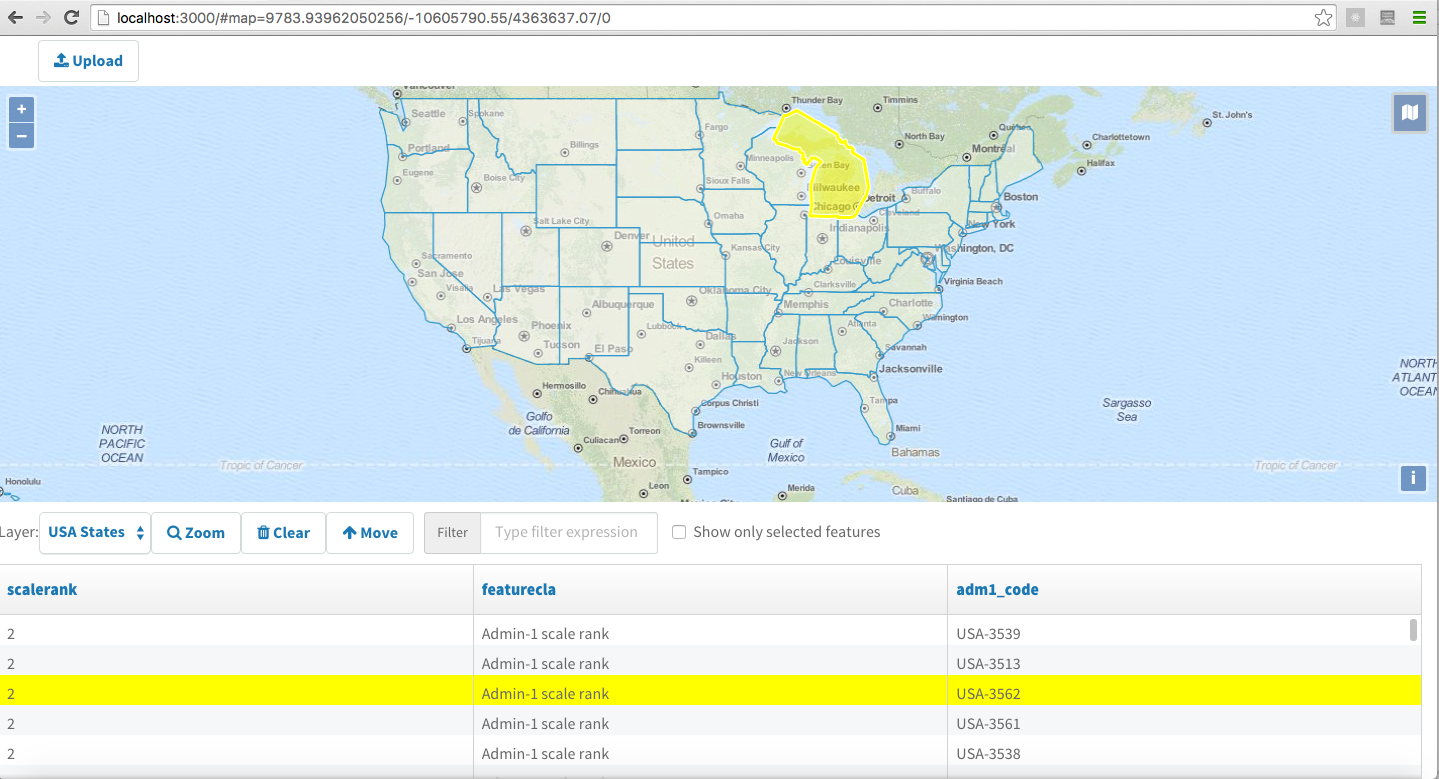
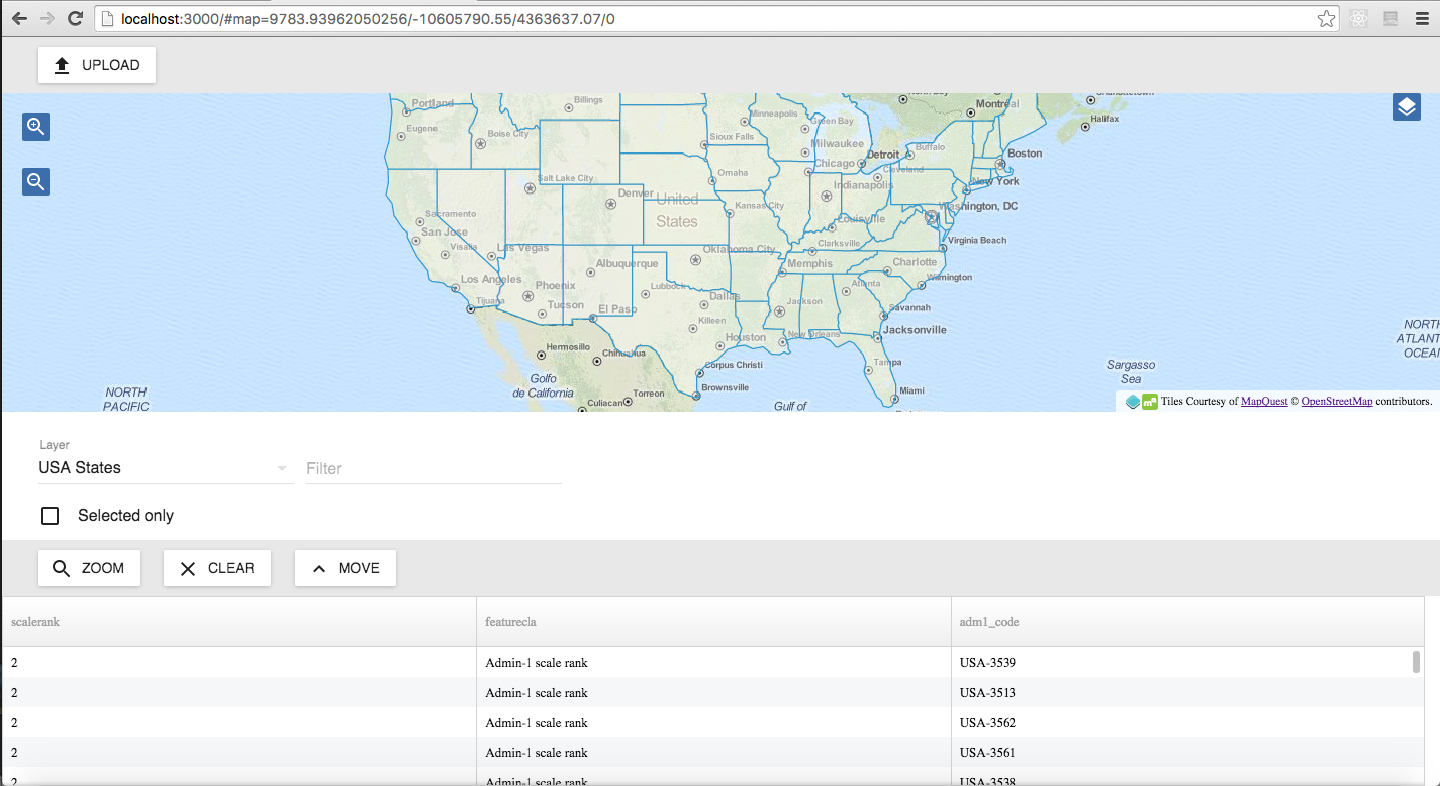
Update tutorial with the latest

Changed region(s): [[0.0, 0.0, 1.0, 1.0], [0.4892, 0.6778, 0.6115, 0.7086], [0.3058, 0.6778, 0.4281, 0.7086]]

diff --git a/docs/tutorial.md b/docs/tutorial.md
@@ -87,31 +87,26 @@ In the render function of our application, we need to add the definition of our 
 The feature table needs to get configured with at least a layer and a map:
 
 ```html
-  <MapPanel id='map' map={map} />
+  <MapPanel id='map' className='row' map={map} />
   <div><LayerList map={map} /></div>
-  <div id='table'><FeatureTable map={map} layer={map.getLayers().item(1)} /></div>
+  <div id='zoom-buttons'><Zoom map={map} /></div>
+  <div id='table' className='row'><FeatureTable resizeTo='table' map={map} layer={map.getLayers().item(1)} /></div>
 ```
 
 Our div with id ```table``` does not yet have a size, so open up ```app.css``` and give it some space on the page:
 
 ```css
 #map {
-  width: 100%;
-  height: 60%;
+  height: 50%;
 }
 #table {
-  width: 100%;
-  height: 40%;
+  height: 50%;
 }
 ```
 
-We have reduced the map div to 60% height and allocated the other 40% for the table.
+We have reduced the map div to 50% height and allocated the other 50% for the table.
 
-If you reload the debug server at http://localhost:3000/ you'll see that we now have a feature table at the bottom of the page. The width of the feature table however is not optimal. Let's define that we want our feature table to resize to the table div, for this we use the ```resizeTo``` property to point to the id of the table div:
-
-```html
-<FeatureTable resizeTo='table' map={map} layer={map.getLayers().item(1)} />
-```
+If you reload the debug server at http://localhost:3000/ you'll see that we now have a feature table at the bottom of the page. With the ```resizeTo``` property we have told the FeatureTable to resize itself to the div with id ```table```.
 
 When you click a row in the feature table, it will select the corresponding geometry in the map.
 
@@ -122,9 +117,10 @@ import React from 'react';
 import ReactDOM from 'react-dom';
 import ol from 'openlayers';
 import {addLocaleData, IntlProvider} from 'react-intl';
+import Zoom from 'boundless-sdk/js/components/Zoom.jsx';
 import MapPanel from 'boundless-sdk/js/components/MapPanel.jsx';
-import LayerList from 'boundless-sdk/js/components/LayerList.jsx';
 import FeatureTable from 'boundless-sdk/js/components/FeatureTable.jsx';
+import LayerList from 'boundless-sdk/js/components/LayerList.jsx';
 import injectTapEventPlugin from 'react-tap-event-plugin';
 import enLocaleData from 'react-intl/locale-data/en.js';
 import enMessages from 'boundless-sdk/locale/en.js';
@@ -140,6 +136,7 @@ addLocaleData(
 );
 
 var map = new ol.Map({
+  controls: [new ol.control.Attribution({collapsible: false})],
   layers: [
     new ol.layer.Group({
       type: 'base-group',
@@ -176,11 +173,12 @@ var map = new ol.Map({
 class MyApp extends React.Component {
   render() {
     return (
-      <article>
-        <MapPanel id='map' map={map} />
+       <div id='content'>
+        <MapPanel id='map' className='row' map={map} />
         <div><LayerList map={map} /></div>
-        <div id='table'><FeatureTable resizeTo='table' map={map} layer={map.getLayers().item(1)} /></div>
-      </article>
+        <div id='zoom-buttons'><Zoom map={map} /></div>
+        <div id='table' className='row'><FeatureTable resizeTo='table' map={map} layer={map.getLayers().item(1)} /></div>
+      </div>
     );
   }
 }
@@ -191,67 +189,72 @@ ReactDOM.render(<IntlProvider locale='en' messages={enMessages}><MyApp /></IntlP
 Our app.css will look like:
 
 ```css
-html, body, article {
-  width: 100%;
+html, body {
   height: 100%;
+  padding: 0;
+  margin: 0;
 }
-#main {
-  width: 100%;
-  height: 100%;
+/* Dead Simple Grid (c) 2015 Vladimir Agafonkin */
+.row .row { margin:  0 -1.5em; }
+.col      { padding: 0  0em; }
+
+.row:after {
+    content: "";
+    clear: both;
+    display: table;
 }
+
+@media only screen { .col {
+    float: left;
+    width: 100%;
+    box-sizing: border-box;
+}}
+/* end Dead Simple Grid */
 #map {
-  width: 100%;
-  height: 60%;
+  height: 50%;
 }
 #table {
+  height: 50%;
+}
+#content, #main {
   width: 100%;
-  height: 40%;
+  height: 100%;
+}
+#zoom-buttons {
+  margin-left: 20px;
+  position: absolute;
+  top: 20px;
 }
 ```
 
 ## 4. Adding an upload component
 In this step we'll be adding a button to the application that will open up a dialog where the user can upload a vector file, such as a KML, GPX or GeoJSON file.
 
-Again, we will start by adding an ```import``` statement to import our component:
+Again, we will start by adding an ```import``` statement to import our component (and the Toolbar to put the button into):
 
 ```javascript
 import AddLayer from 'boundless-sdk/js/components/AddLayer.jsx';
+import Toolbar from 'material-ui/lib/toolbar/toolbar';
 ```
 
 In the ```render``` function of our application, we need to add a toolbar to accommodate for the button of the upload component:
 
 ```html
-  <nav role='navigation'>
-    <div className='toolbar'>
-      <ul><AddLayer map={map} /></ul>
-    </div>
-  </nav>
+ <div id='content'>
+   <Toolbar><AddLayer map={map} /></Toolbar>
+   <MapPanel id='map' className='row' map={map} />
 ```
 
-Add the ```nav``` just after the ```<article>``` opening tag.
-
-Also add a div to group the map and featuretable divs, with id ```content```:
-
-```html
-  <div id='content'>
-    <MapPanel id='map' map={map} />
-    <div><LayerList map={map} /></div>
-    <div id='table'><FeatureTable resizeTo='table' map={map} layer={map.getLayers().item(1)} /></div>
-  </div>
-```
-
-Open up app.css to give a bit of space to the button in the toolbar with ```padding-top```, also give the toolbar a fixed height and adjust the ```content``` div's height accordingly:
+Open up app.css and take the 56px of the toolbar from the map's height, and move the zoom buttons 56px down.
 
 ```css
-.toolbar {
-  height: 50px;
+#map {
+  height: calc(50% - 56px);
 }
-#content {
-  width: 100%;
-  height:  calc(100% - 50px);
-}
-.toolbar ul {
-  padding-top: 4px;
+#zoom-buttons {
+  margin-left: 20px;
+  position: absolute;
+  top: 76px;
 }
 ```
 
@@ -262,10 +265,12 @@ import React from 'react';
 import ReactDOM from 'react-dom';
 import ol from 'openlayers';
 import {addLocaleData, IntlProvider} from 'react-intl';
+import Zoom from 'boundless-sdk/js/components/Zoom.jsx';
 import MapPanel from 'boundless-sdk/js/components/MapPanel.jsx';
-import LayerList from 'boundless-sdk/js/components/LayerList.jsx';
 import FeatureTable from 'boundless-sdk/js/components/FeatureTable.jsx';
+import LayerList from 'boundless-sdk/js/components/LayerList.jsx';
 import AddLayer from 'boundless-sdk/js/components/AddLayer.jsx';
+import Toolbar from 'material-ui/lib/toolbar/toolbar';
 import injectTapEventPlugin from 'react-tap-event-plugin';
 import enLocaleData from 'react-intl/locale-data/en.js';
 import enMessages from 'boundless-sdk/locale/en.js';
@@ -281,6 +286,7 @@ addLocaleData(
 );
 
 var map = new ol.Map({
+  controls: [new ol.control.Attribution({collapsible: false})],
   layers: [
     new ol.layer.Group({
       type: 'base-group',
@@ -317,18 +323,13 @@ var map = new ol.Map({
 class MyApp extends React.Component {
   render() {
     return (
-      <article>
-        <nav role='navigation'>
-          <div className='toolbar'>
-            <ul><AddLayer map={map} /></ul>
-          </div>
-        </nav>
-        <div id='content'>
-          <MapPanel id='map' map={map} />
-          <div><LayerList map={map} /></div>
-          <div id='table'><FeatureTable resizeTo='table' map={map} layer={map.getLayers().item(1)} /></div>
-        </div>
-      </article>
+       <div id='content'>
+        <Toolbar><AddLayer map={map} /></Toolbar>
+        <MapPanel id='map' className='row' map={map} />
+        <div><LayerList map={map} /></div>
+        <div id='zoom-buttons'><Zoom map={map} /></div>
+        <div id='table' className='row'><FeatureTable resizeTo='table' map={map} layer={map.getLayers().item(1)} /></div>
+      </div>
     );
   }
 }
@@ -339,31 +340,41 @@ ReactDOM.render(<IntlProvider locale='en' messages={enMessages}><MyApp /></IntlP
 The final app.css will look like:
 
 ```css
-html, body, article {
-  width: 100%;
+html, body {
   height: 100%;
+  padding: 0;
+  margin: 0;
 }
-#main {
-  width: 100%;
-  height: 100%;
+/* Dead Simple Grid (c) 2015 Vladimir Agafonkin */
+.row .row { margin:  0 -1.5em; }
+.col      { padding: 0  0em; }
+
+.row:after {
+    content: "";
+    clear: both;
+    display: table;
 }
+
+@media only screen { .col {
+    float: left;
+    width: 100%;
+    box-sizing: border-box;
+}}
+/* end Dead Simple Grid */
 #map {
-  width: 100%;
-  height: 60%;
+  height: calc(50% - 56px);
 }
 #table {
+  height: 50%;
+}
+#content, #main {
   width: 100%;
-  height: 40%;
+  height: 100%;
 }
-.toolbar {
-  height: 50px;
-}
-#content {
-  width: 100%;
-  height:  calc(100% - 50px);
-}
-.toolbar ul {
-  padding-top: 4px;
+#zoom-buttons {
+  margin-left: 20px;
+  position: absolute;
+  top: 76px;
 }
 ```
 
